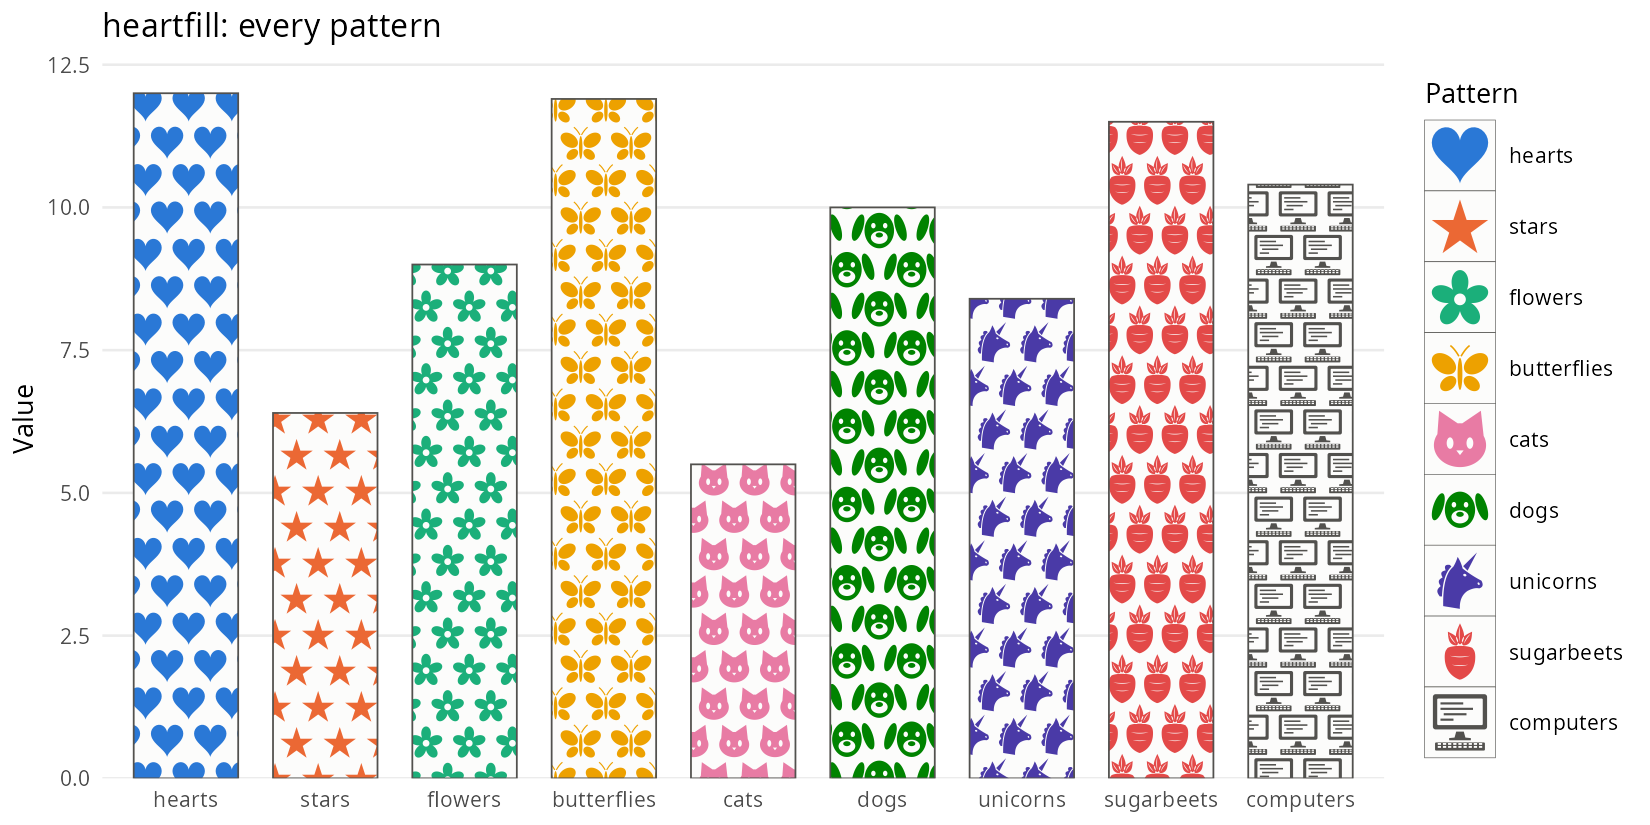
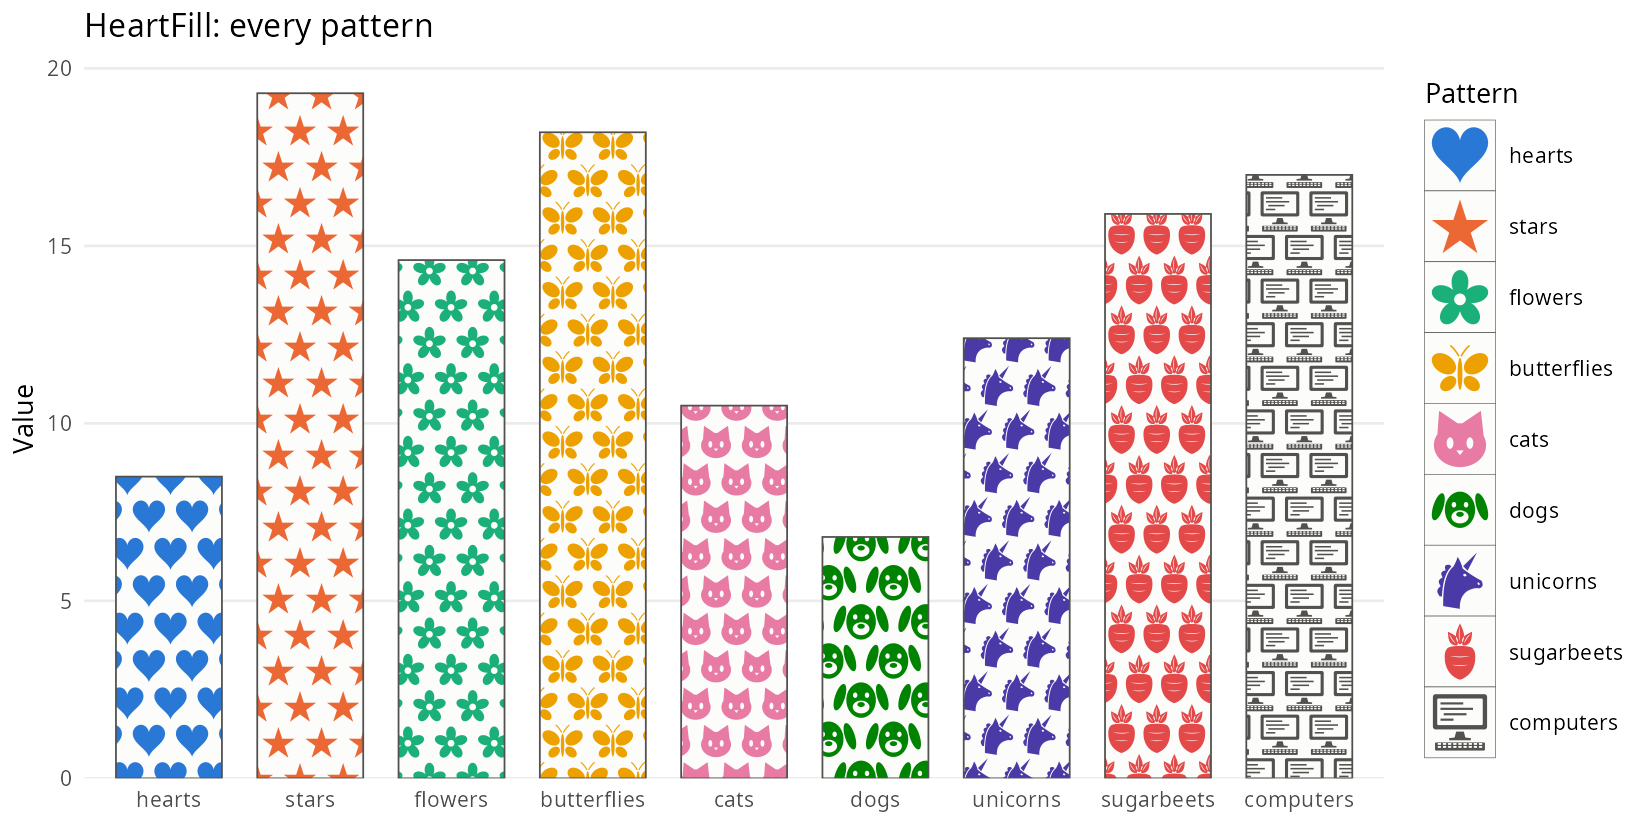
Rename package to HeartFill

Changed region(s): [[0.0309, 0.0909, 0.8345, 1.0], [0.0618, 0.0, 0.2782, 0.0606], [0.0309, 0.0606, 0.0618, 0.0909]]

diff --git a/README.md b/README.md
@@ -1,4 +1,4 @@
-# heartfill
+# HeartFill
 
 Novelty extras for **ggplot2**:
 
@@ -9,9 +9,9 @@ Novelty extras for **ggplot2**:
 - **`geom_viri()`**: the Viri mascot as scatterplot points.
 - **`geom_errorbar_dna()`**: error bars drawn as a DNA double helix.
 
-![Every heartfill shape pattern](man/figures/all_patterns.png)
+![Every HeartFill shape pattern](man/figures/all_patterns.png)
 
-The patterns plug into `ggpattern`: loading `heartfill` registers them, so you
+The patterns plug into `ggpattern`: loading `HeartFill` registers them, so you
 use them with `pattern = "hearts"` etc. in `geom_col_pattern()`,
 `geom_bar_pattern()`, `geom_area_pattern()`, …
 
@@ -38,7 +38,7 @@ With conda: `conda install -c conda-forge r-remotes r-ggpattern r-png`.
 ```r
 library(ggplot2)
 library(ggpattern)
-library(heartfill)   # registers the patterns
+library(HeartFill)   # registers the patterns
 
 df <- data.frame(group = c("A", "B", "C"), value = c(5, 9, 3))
 
@@ -192,14 +192,14 @@ with `position_dodge()` and `coord_flip()`; see
 Runnable demo scripts ship with the package:
 
 ```r
-list.files(system.file("examples", package = "heartfill"), full.names = TRUE)
+list.files(system.file("examples", package = "HeartFill"), full.names = TRUE)
 ```
 
 Each writes a PNG (optionally to a path given as the first command-line
 argument), e.g.
 
 ```bash
-Rscript "$(Rscript -e 'cat(system.file("examples/all_patterns_barplot.R", package = "heartfill"))')" my_plot.png
+Rscript "$(Rscript -e 'cat(system.file("examples/all_patterns_barplot.R", package = "HeartFill"))')" my_plot.png
 ```
 
 ## Adding a pattern

diff --git a/NEWS.md b/NEWS.md
@@ -1,5 +1,7 @@
-# heartfill 0.2.0
+# HeartFill 0.2.0
 
+* The package is now called `HeartFill` (was `heartfill`); load it with
+  `library(HeartFill)`.
 * New fill pattern `"viris"`: tiles the hand-drawn Viri mascot; `pattern_fill`
   recolours its marker ink.
 * New `geom_viri()`: Viri mascots as scatterplot points.
@@ -8,7 +10,7 @@
   marker drawing) outside a plot.
 * `ggplot2` and `png` are now imported.
 
-# heartfill 0.1.0
+# HeartFill 0.1.0
 
 * Fill patterns for `ggpattern`: hearts, stars, flowers, butterflies, cats,
   dogs, unicorns, sugar beets and computers.
